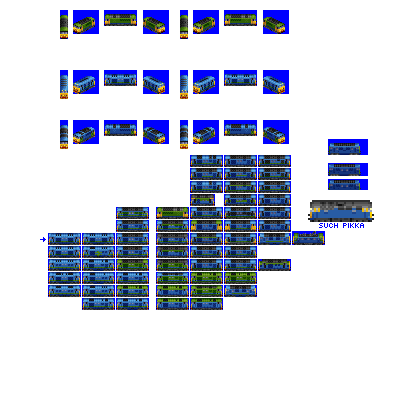
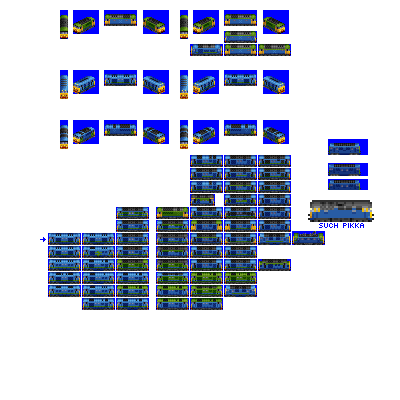
Change: WIP on multiple Jokers

Changed region(s): [[0.45, 0.03, 0.75, 0.15], [0.27, 0.03, 0.33, 0.06]]

diff --git a/src/vehicles/blind_smuir.py b/src/vehicles/blind_smuir.py
@@ -1,0 +1,29 @@
+from train import EngineConsist, SteamEngineUnit, SteamEngineTenderUnit
+
+
+def main(roster_id):
+    consist = EngineConsist(roster_id=roster_id,
+                            id='blind_smuir',
+                            base_numeric_id=4850,
+                            name='4-6-0 Blind Smuir',
+                            role='heavy_freight',
+                            role_child_branch_num=-1,
+                            replacement_consist_id='duff', # this Joker ends with Duff
+                            power=1850, # slightly less than the Strongbow eh
+                            speed=75, # for lolz
+                            tractive_effort_coefficient=0.18,
+                            gen=3,
+                            intro_date_offset=2,  # let's be a little bit later for this one
+                            sprites_complete=False)
+
+    consist.add_unit(type=SteamEngineUnit,
+                     weight=96,
+                     vehicle_length=6,
+                     spriterow_num=0)
+
+    consist.add_unit(type=SteamEngineTenderUnit,
+                     weight=40,
+                     vehicle_length=4,
+                     spriterow_num=1)
+
+    return consist

diff --git a/src/vehicles/badenoch.py b/src/vehicles/badenoch.py
@@ -1,0 +1,28 @@
+from train import EngineConsist, SteamEngineUnit, SteamEngineTenderUnit
+
+
+def main(roster_id):
+    consist = EngineConsist(roster_id=roster_id,
+                            id='badenoch',
+                            base_numeric_id=4840,
+                            name='2-8-2 Badenoch',
+                            role='heavy_express',
+                            role_child_branch_num=-2, # -ve because Joker
+                            power=2250,
+                            tractive_effort_coefficient=0.25,
+                            gen=3,
+                            intro_date_offset=6, # introduce later than gen epoch by design
+                            sprites_complete=False)
+
+    consist.add_unit(type=SteamEngineUnit,
+                     weight=110,
+                     vehicle_length=8,
+                     effect_offsets=[(-3, 0), (-2, 0)], # double the smoke eh?
+                     spriterow_num=0)
+
+    consist.add_unit(type=SteamEngineTenderUnit,
+                     weight=40,
+                     vehicle_length=4,
+                     spriterow_num=1)
+
+    return consist

diff --git a/src/rosters/pony.py b/src/rosters/pony.py
@@ -2,9 +2,11 @@ from roster import Roster
 
 from vehicles import ares
 from vehicles import athena
+#from vehicles import badenoch # doesn't work imho
 from vehicles import bean_feast
 from vehicles import blackthorn
 from vehicles import blaze
+from vehicles import blind_smuir
 from vehicles import boar_cat
 from vehicles import bone
 from vehicles import braf
@@ -153,6 +155,7 @@ def main(disabled=False):
                                vanguard,
                                revolution,
                                pegasus,
+                               #badenoch, # deprecated Joker, sprite is odd, doesn't add much to game
                                dragon,
                                onslaught,
                                relentless,
@@ -174,6 +177,7 @@ def main(disabled=False):
                                gwynt,
                                braf,
                                haar,
+                               blind_smuir,
                                growler,
                                slug,
                                phoenix,

diff --git a/src/vehicles/strongbow.py b/src/vehicles/strongbow.py
@@ -8,19 +8,19 @@ def main(roster_id):
                             name='4-6-0 Strongbow',
                             role='heavy_express',
                             role_child_branch_num=1,
-                            power=1850,
+                            power=1900, # not an exact linear progression in this tree
                             tractive_effort_coefficient=0.18,
                             gen=3,
                             fixed_run_cost_points=140, # give a bonus so this can be a genuine mixed-traffic engine
                             sprites_complete=True)
 
     consist.add_unit(type=SteamEngineUnit,
-                     weight=96,
+                     weight=94,
                      vehicle_length=6,
                      spriterow_num=0)
 
     consist.add_unit(type=SteamEngineTenderUnit,
-                     weight=38,
+                     weight=36,
                      vehicle_length=4,
                      spriterow_num=1)
 

diff --git a/src/train.py b/src/train.py
@@ -235,7 +235,7 @@ class Consist(object):
                                        'freight_core': {'freight': [1], 'heavy_freight':[1]},
                                        'freight_non_core': {'branch_freight': [1], 'freight': [2], 'heavy_freight': [2, 3, 4]},
                                        'hst': {'hst': [1]},
-                                       'jokers': {'gronk!': [-1], 'heavy_express': [-1], 'heavy_freight': [-1, -2], 'snoughplough!': [-1]},
+                                       'jokers': {'gronk!': [-1], 'heavy_express': [-1, -2], 'heavy_freight': [-1, -2], 'snoughplough!': [-1]},
                                        'metro': {'mail_metro': [1], 'pax_metro': [1]},
                                        'railcar': {'mail_railcar': [1, 2], 'pax_railcar': [1, 2]},
                                        'very_high_speed': {'very_high_speed': [1, 2]},

diff --git a/src/iron_horse.py b/src/iron_horse.py
@@ -132,7 +132,7 @@ def get_livery_2_engine_ids():
     for roster in get_active_rosters():
         for consist in roster.engine_consists:
             # second livery choice is deliberate, means 'as seen in buy menu' livery is built for common case of express 1, heavy_express 1
-            # 'heavy_express_4' doesn't use livery_2 by design (tied to Pony engine livery assumptions)
+            # note that -2 is used for heavy_express, be careful which engines are in this joker branch
             # ! this (x,y) tuple format is weird and won't scale well, see train.py intro_date_days_offset() for a dict based solution to a similar problem
             if (consist.role, consist.role_child_branch_num) in [('branch_express', 1), ('express', 2), ('heavy_express', 2), ('pax_railcar', 2), ('mail_railcar', 2)]:
                 result.append(consist.id)

diff --git a/src/vehicles/duff.py b/src/vehicles/duff.py
@@ -8,12 +8,12 @@ def main(roster_id):
                             name='Duff',
                             role='heavy_express',
                             role_child_branch_num=-1, # -ve because Joker
-                            power=2200,
+                            power=2300,
                             random_reverse=True,
                             gen=4,
                             fixed_run_cost_points=60, # give a bonus so this can be a genuine mixed-traffic engine
                             intro_date_offset=8,  # let's be quite a lot later for this one
-                            sprites_complete=True)
+                            sprites_complete=False)
 
     consist.add_unit(type=DieselEngineUnit,
                      weight=125, # tiny bonus over Wyvern

diff --git a/src/vehicles/wyvern.py b/src/vehicles/wyvern.py
@@ -8,7 +8,7 @@ def main(roster_id):
                             name='Wyvern',
                             role='heavy_express',
                             role_child_branch_num=1,
-                            power=2200,
+                            power=2300, # not an exact linear progression in this tree
                             random_reverse=True,
                             gen=4,
                             intro_date_offset=-6,  # let's not have everything turn up in 1960

diff --git a/src/vehicles/bone.py b/src/vehicles/bone.py
@@ -12,7 +12,7 @@ def main(roster_id):
                             random_reverse=True,
                             intro_date_offset=-2,  # let's be a little bit earlier for this one
                             gen=5,
-                            sprites_complete=True)
+                            sprites_complete=False)
 
     consist.add_unit(type=DieselEngineUnit,
                      weight=125, # tiny nerf from Grid, because IRL reasons
